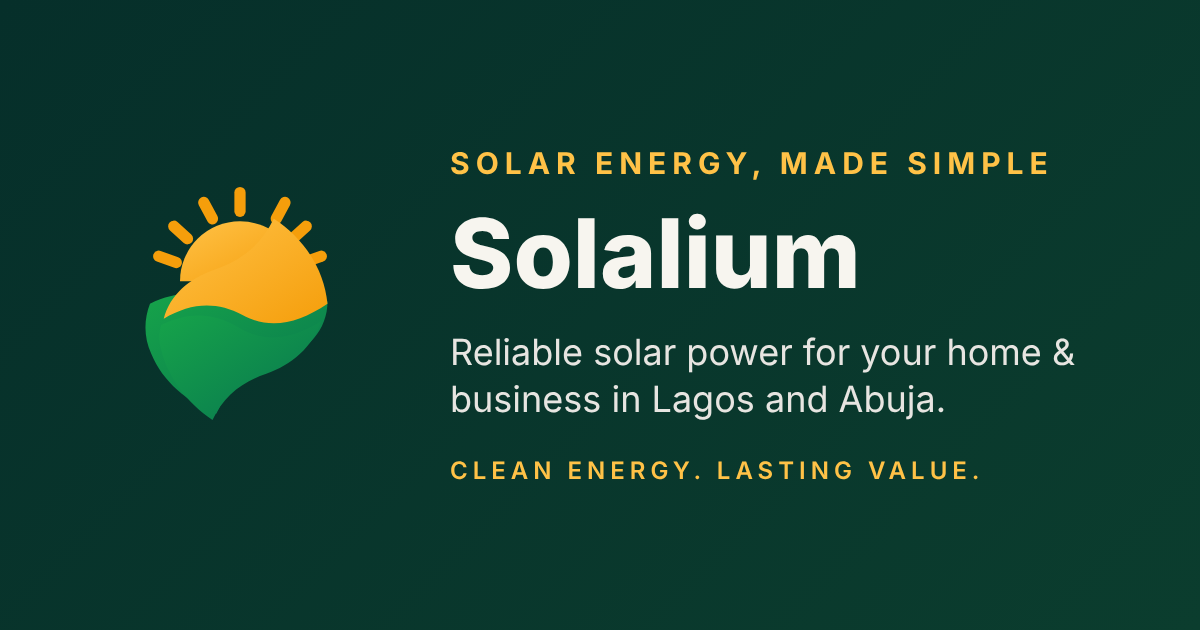
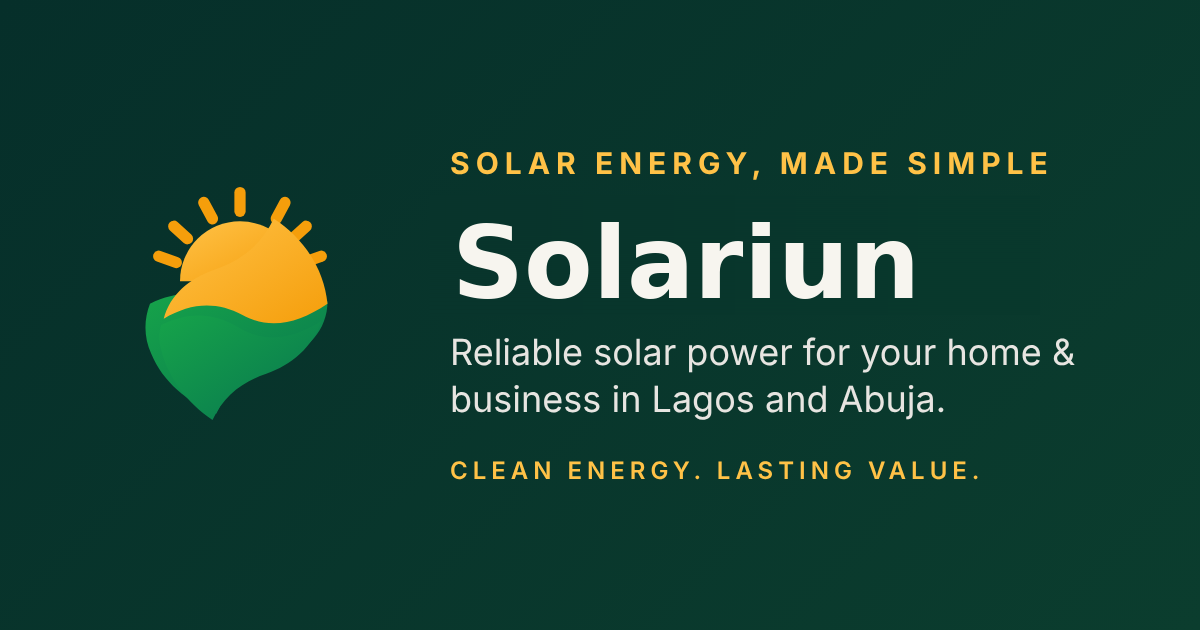
name change

Changed region(s): [[0.37, 0.3317, 0.7708, 0.4825]]

diff --git a/src/pages/Home.jsx b/src/pages/Home.jsx
@@ -7,7 +7,7 @@ import { ArticleCard } from './Blog.jsx';
 const EXAMPLE_BARS = [
   { label: 'Diesel generator', value: '₦420,000', pct: 100, tone: 'diesel' },
   { label: 'National grid', value: '₦180,000', pct: 43, tone: 'grid' },
-  { label: 'Solalium plan', value: '₦95,000', pct: 23, tone: 'solar' },
+  { label: 'Solariun plan', value: '₦95,000', pct: 23, tone: 'solar' },
 ];
 
 export default function Home() {
@@ -31,7 +31,7 @@ export default function Home() {
             <p className="eyebrow">Solar energy, made simple</p>
             <h1>Reliable solar power for your home &amp; business.</h1>
             <p className="lede">
-              Tick the appliances you use. In three minutes Solalium shows what your generator and your light bill really
+              Tick the appliances you use. In three minutes Solariun shows what your generator and your light bill really
               cost, what solar would save, and how to switch by renting, leasing or paying monthly, with vetted providers
               rather than sales pitches.
             </p>
@@ -173,7 +173,7 @@ export default function Home() {
       {posts.length > 0 && (
         <section className="home-blog" id="blog">
           <div className="wrap">
-            <div className="home-blog-head"><h2>From the Solalium blog</h2><Link to="/blog">All articles →</Link></div>
+            <div className="home-blog-head"><h2>From the Solariun blog</h2><Link to="/blog">All articles →</Link></div>
             <div className="article-grid">{posts.map((a) => <ArticleCard key={a.slug} a={a} />)}</div>
           </div>
         </section>
@@ -185,7 +185,7 @@ export default function Home() {
             <p className="eyebrow">For providers</p>
             <h2>Built for installers, sellers and financiers too</h2>
             <p>
-              Solalium qualifies demand before it reaches you: real load data, real budgets, real intent. No cold
+              Solariun qualifies demand before it reaches you: real load data, real budgets, real intent. No cold
               outreach, no bidding against a discount code. Customers arrive having already worked out what they use and what they can spend.
             </p>
           </div>
@@ -200,7 +200,7 @@ export default function Home() {
                 <li>Orders, pickups and payouts managed in one dashboard</li>
                 <li>Verified badge once we have seen your shop or business papers</li>
               </ul>
-              <Link to="/signup?role=vendor" className="btn btn-ghost btn-on-dark">Sell on Solalium</Link>
+              <Link to="/signup?role=vendor" className="btn btn-ghost btn-on-dark">Sell on Solariun</Link>
             </article>
             <article className="provider-card">
               <h3>Companies</h3>
@@ -219,7 +219,7 @@ export default function Home() {
               <ul>
                 <li>Pass a short technical quiz and get approved</li>
                 <li>Jobs in your state land in your dashboard; the first to accept wins it</li>
-                <li>Customers pay Solalium up front, so you work knowing the job is funded</li>
+                <li>Customers pay Solariun up front, so you work knowing the job is funded</li>
                 <li>Your payout is a fixed share of the installation fee</li>
               </ul>
               <Link to="/signup?role=installer" className="btn btn-ghost btn-on-dark">Become an installer</Link>
@@ -233,7 +233,7 @@ export default function Home() {
           </ol>
 
           <p className="provider-foot">
-            Already working with solar? <Link to="/partners">See who is on Solalium</Link>
+            Already working with solar? <Link to="/partners">See who is on Solariun</Link>
           </p>
         </div>
       </section>

diff --git a/src/pages/admin/AdminOrders.jsx b/src/pages/admin/AdminOrders.jsx
@@ -3,7 +3,7 @@ import { api } from '../../api.js';
 import { naira } from '../../lib/format.js';
 
 const at = (iso) => (iso ? new Date(iso).toLocaleString('en-NG', { day: 'numeric', month: 'short', hour: 'numeric', minute: '2-digit', timeZone: 'Africa/Lagos' }) : '—');
-const STAT = [['orders', 'Paid orders'], ['gmv', 'Sales', true], ['platform_revenue', 'Solalium revenue', true], ['awaiting_vendor', 'Awaiting vendor'], ['in_prep', 'In preparation'], ['out_for_delivery', 'Out for delivery'], ['awaiting_receipt', 'Awaiting receipt'], ['completed', 'Completed'], ['late_now', 'Running late'], ['refunds_needed', 'Refunds to do']];
+const STAT = [['orders', 'Paid orders'], ['gmv', 'Sales', true], ['platform_revenue', 'Solariun revenue', true], ['awaiting_vendor', 'Awaiting vendor'], ['in_prep', 'In preparation'], ['out_for_delivery', 'Out for delivery'], ['awaiting_receipt', 'Awaiting receipt'], ['completed', 'Completed'], ['late_now', 'Running late'], ['refunds_needed', 'Refunds to do']];
 const ACTIONS = { placed: ['accept'], accepted: ['prepare', 'ready', 'pickup'], preparing: ['ready', 'pickup'], ready_for_pickup: ['pickup'], out_for_delivery: ['deliver'], delivered: ['receive'] };
 
 export default function AdminOrders() {
@@ -55,7 +55,7 @@ export default function AdminOrders() {
             </header>
             <p><strong>{o.vendor.name}</strong> ({o.vendor.phone}) → {o.customer.name} ({o.customer.phone}), {o.deliverTo.areaName}, {o.deliverTo.stateName}</p>
             <p className="muted">{o.items.map((i) => `${i.qty} × ${i.name}`).join(', ')} · items {naira(o.subtotal)} · service charge {naira(o.serviceCharge)} · delivery {naira(o.deliveryFee)} ({o.distanceKm} km)</p>
-            <p className="muted">Vendor earns {naira(o.vendorEarnings)} (platform fee {naira(o.commission)}) · Solalium revenue on this order {naira(o.platformRevenue)}</p>
+            <p className="muted">Vendor earns {naira(o.vendorEarnings)} (platform fee {naira(o.commission)}) · Solariun revenue on this order {naira(o.platformRevenue)}</p>
             <p className="muted">Paid {at(o.paidAt)} · promised {at(o.promisedBy)} · accepted {at(o.acceptedAt)} · picked up {at(o.pickedUpAt)} · delivered {at(o.deliveredAt)} · received {at(o.completedAt)}</p>
             <div className="row-actions">
               {(ACTIONS[o.status] ?? []).map((a) => <button key={a} type="button" className="btn btn-small btn-quiet" onClick={() => act(o.id, a)}>{a}</button>)}

diff --git a/src/lib/seo.js b/src/lib/seo.js
@@ -1,25 +1,25 @@
 // One place for what search engines and link previews see. Public pages are listed in PUBLIC_PAGES;
 // every other route (accounts, cart, checkout, 404) is marked noindex by RouteSeo.
-export const SITE_NAME = 'Solalium';
+export const SITE_NAME = 'Solariun';
 export const TAGLINE = 'Clean energy. Lasting value.';
 export const SITE_URL = (import.meta.env.VITE_SITE_URL || (typeof window !== 'undefined' ? window.location.origin : '')).replace(/\/$/, '');
 export const OG_IMAGE = '/og-image.png';
 
 export const PUBLIC_PAGES = {
   '/': {
-    title: 'Solalium: Reliable solar power for your home & business in Nigeria',
+    title: 'Solariun: Reliable solar power for your home & business in Nigeria',
     description: 'Find out what your generator and light bill really cost, see what solar would save, and switch by buying, leasing or paying monthly with vetted solar providers in Lagos and Abuja.',
   },
   '/partners': {
-    title: 'Solar installers, vendors and companies in Nigeria | Solalium Partners',
-    description: 'Verified solar sellers, installation companies and installers on Solalium, sortable by state and area in Lagos and Abuja.',
+    title: 'Solar installers, vendors and companies in Nigeria | Solariun Partners',
+    description: 'Verified solar sellers, installation companies and installers on Solariun, sortable by state and area in Lagos and Abuja.',
   },
   '/blog': {
-    title: 'Solar guides and news for homes and businesses in Nigeria | Solalium Blog',
+    title: 'Solar guides and news for homes and businesses in Nigeria | Solariun Blog',
     description: 'Practical articles on solar power, inverters, batteries, costs and saving on fuel and electricity in Nigeria.',
   },
   '/shop': {
-    title: 'Buy solar panels, inverters, batteries & more in Lagos and Abuja | Solalium',
+    title: 'Buy solar panels, inverters, batteries & more in Lagos and Abuja | Solariun',
     description: 'Shop solar panels, inverters, batteries, charge controllers, cables, pumps, streetlights and complete kits from verified vendors near you, with delivery prices shown up front.',
   },
 };

diff --git a/src/components/SiteHeader.jsx b/src/components/SiteHeader.jsx
@@ -13,6 +13,19 @@ const LINKS = [
   ['/#providers', 'For providers'],
 ];
 
+// The phone menu: the shopper's links first, then the ways to join as a provider.
+const SIDE_LINKS = [
+  ['/#how', 'How it works'],
+  ['/shop', 'Shop'],
+  ['/blog', 'Blog'],
+  ['/partners', 'Partners'],
+];
+const PROVIDER_LINKS = [
+  ['/signup?role=installer', 'Become an installer'],
+  ['/signup?role=vendor', 'Sell & Become a Vendor'],
+  ['/signup?role=vendor&type=company', 'Corporate Initiatives'],
+];
+
 export default function SiteHeader() {
   const { user, ready, logout } = useAuth();
   const { open } = useAssessment();
@@ -54,9 +67,9 @@ export default function SiteHeader() {
     <>
     <header className="nav scrolled">
       <div className="wrap nav-inner">
-        <Link to="/" className="brand" aria-label="Solalium home">
+        <Link to="/" className="brand" aria-label="Solariun home">
           <img src="/logo-mark.svg" height="36" alt="" className="brand-logo" />
-          <span className="brand-word">Solalium</span>
+          <span className="brand-word">Solariun</span>
         </Link>
 
         <nav className="nav-links" aria-label="Main">
@@ -100,8 +113,10 @@ export default function SiteHeader() {
               <button type="button" ref={closeRef} className="icon-btn" onClick={() => setMenu(false)} aria-label="Close menu">×</button>
             </div>
             <nav className="side-links" aria-label="Site">
-              {LINKS.map(([to, label]) => <Link key={to} to={to}>{label}</Link>)}
+              {SIDE_LINKS.map(([to, label]) => <Link key={to} to={to}>{label}</Link>)}
               <Link to="/cart">Cart{count > 0 ? ` (${count})` : ''}</Link>
+              <p className="side-group">For providers</p>
+              {PROVIDER_LINKS.map(([to, label]) => <Link key={to} to={to}>{label}</Link>)}
             </nav>
             <div className="side-actions">
               {loggedIn ? (

diff --git a/src/pages/Signup.jsx b/src/pages/Signup.jsx
@@ -25,7 +25,7 @@ export default function Signup() {
   const initialRole = ROLES.some((r) => r.key === params.get('role')) ? params.get('role') : 'individual';
 
   const [role, setRole] = useState(initialRole);
-  const [vendorType, setVendorType] = useState('seller');
+  const [vendorType, setVendorType] = useState(params.get('type') === 'company' ? 'company' : 'seller');
   const [form, setForm] = useState({ fullName: '', companyName: '', email: '', phone: '', password: '' });
   const [fieldErrors, setFieldErrors] = useState({});
   const [formError, setFormError] = useState(null);
@@ -151,7 +151,7 @@ export default function Signup() {
             errors={fieldErrors}
             legend={role === 'vendor' ? 'Business location (where orders are picked up)' : role === 'installer' ? 'Where you are based (you get jobs in your state)' : 'Delivery address'}
           />
-          <p className="muted small-note">Solalium is live in Lagos and Abuja for now.</p>
+          <p className="muted small-note">Solariun is live in Lagos and Abuja for now.</p>
 
           <label className="field">
             <span>Password</span>
@@ -168,7 +168,7 @@ export default function Signup() {
                 {showPassword ? 'Hide' : 'Show'}
               </button>
             </div>
-            {fieldErrors.password ? <small className="err">{fieldErrors.password}</small> : <small>At least 8 characters, with a letter and a number. Already have a Solalium account with this email? Use its password to add this account type.</small>}
+            {fieldErrors.password ? <small className="err">{fieldErrors.password}</small> : <small>At least 8 characters, with a letter and a number. Already have a Solariun account with this email? Use its password to add this account type.</small>}
           </label>
 
           {emailTaken && (

diff --git a/src/pages/Partners.jsx b/src/pages/Partners.jsx
@@ -35,7 +35,7 @@ export default function Partners() {
       <Seo {...PUBLIC_PAGES['/partners']} path="/partners" />
       <h1>Our partners</h1>
       <p className="muted">
-        Sellers, solar companies and installers who have been checked by Solalium. Sort by state or area to find someone near you.
+        Sellers, solar companies and installers who have been checked by Solariun. Sort by state or area to find someone near you.
         {data ? ` ${data.counts.seller} sellers, ${data.counts.company} companies, ${data.counts.installer} installers.` : ''}
       </p>
 
@@ -77,10 +77,11 @@ export default function Partners() {
                   <td data-label="Name"><strong>{p.name}</strong> <span className="badge badge-verified">Verified</span></td>
                   <td data-label="Type">{KIND[p.kind]}</td>
                   <td data-label="State">{p.stateName ?? '—'}</td>
+                  <td data-label="Area">{p.areaName ?? '—'}</td>
                   <td data-label="What they do">
                     {p.services.join(' · ')}
                     {p.kind !== 'installer' && p.products > 0 ? <small className="muted"> · {p.products} product{p.products === 1 ? '' : 's'} listed</small> : null}
-                    {p.kind === 'installer' && p.jobsCompleted > 0 ? <small className="muted"> · {p.jobsCompleted} job{p.jobsCompleted === 1 ? '' : 's'} done on Solalium</small> : null}
+                    {p.kind === 'installer' && p.jobsCompleted > 0 ? <small className="muted"> · {p.jobsCompleted} job{p.jobsCompleted === 1 ? '' : 's'} done on Solariun</small> : null}
                   </td>
                 </tr>
               ))}

diff --git a/src/pages/AddAccount.jsx b/src/pages/AddAccount.jsx
@@ -6,7 +6,7 @@ import AddressFields from '../components/AddressFields.jsx';
 import { VENDOR_TYPES } from './Signup.jsx';
 
 const COPY = {
-  vendor: { title: 'Sell on Solalium', text: 'Open a vendor account on the same email and password. Your shopping account stays as it is; switch between them from the menu.', company: 'Company name', loc: 'Business location (where orders are picked up)' },
+  vendor: { title: 'Sell on Solariun', text: 'Open a vendor account on the same email and password. Your shopping account stays as it is; switch between them from the menu.', company: 'Company name', loc: 'Business location (where orders are picked up)' },
   business: { title: 'Open a business account', text: 'Use the same email and password for your company. Switch between accounts from the menu.', company: 'Business or organisation name', loc: 'Business delivery address' },
   installer: { title: 'Work as an installer', text: 'Open an installer account on the same email and password. You will answer a short set of technical questions and our team approves you before you get jobs.', company: null, loc: 'Where you are based (you get jobs in your state)' },
   individual: { title: 'Open an individual account', text: 'Use the same email and password for your home.', company: null, loc: 'Delivery address' },

diff --git a/src/styles/site.css b/src/styles/site.css
@@ -1,5 +1,5 @@
 :root {
-  /* Solalium brand: Deep Green, Leaf Green, Solar Gold, Sand, Charcoal, Deep Teal, Warm White, Soft Gold.
+  /* Solariun brand: Deep Green, Leaf Green, Solar Gold, Sand, Charcoal, Deep Teal, Warm White, Soft Gold.
      The app runs on the brand's dark surface (Deep Teal / Deep Green) with a gold call to action. */
   --ink: #062f2a;        /* Deep Teal: page background */
   --panel: #0b3d2e;      /* Deep Green: cards and panels */
@@ -630,6 +630,7 @@ p {
 .side-head { display: flex; align-items: center; justify-content: space-between; padding-bottom: 12px; border-bottom: 1px solid var(--line); }
 .side-links { display: flex; flex-direction: column; padding: 8px 0; }
 .side-links a { color: var(--paper); text-decoration: none; font-size: 17px; padding: 14px 4px; border-bottom: 1px solid rgba(255, 255, 255, 0.06); }
+.side-group { margin: 18px 4px 2px; font-size: 12px; letter-spacing: 0.08em; text-transform: uppercase; color: var(--muted); }
 .side-actions { display: flex; flex-direction: column; gap: 10px; margin-top: auto; padding-top: 18px; }
 .side-actions .btn { width: 100%; justify-content: center; text-align: center; }
 @media (prefers-reduced-motion: reduce) { .side-menu { animation: none; } }

diff --git a/src/components/AppLayout.jsx b/src/components/AppLayout.jsx
@@ -10,7 +10,7 @@ const NAV = {
   admin: [['/app', 'Vendors', true], ['/app/installers', 'Installers'], ['/app/admin-installations', 'Installations'], ['/app/admin-subscriptions', 'Subscriptions'], ['/app/blog', 'Blog'], ['/app/orders', 'Orders'], ['/app/admin-products', 'Products'], ['/app/pricing', 'Pricing & rules'], ['/app/users', 'Users'], ['/app/activity', 'Activity'], ['/app/password', 'Password']],
 };
 const ROLE_LABEL = { individual: 'Individual', business: 'Business', vendor: 'Vendor', installer: 'Installer', admin: 'Admin' };
-const OPEN_LABEL = { individual: 'Open an individual account', business: 'Open a business account', vendor: 'Sell on Solalium (vendor)', installer: 'Work as an installer' };
+const OPEN_LABEL = { individual: 'Open an individual account', business: 'Open a business account', vendor: 'Sell on Solariun (vendor)', installer: 'Work as an installer' };
 
 // The frame around every signed-in page: a sidebar with the pages for this type of account, a switcher between
 // the accounts that share the person's email, and a way to open another type.

diff --git a/src/components/ResultsView.jsx b/src/components/ResultsView.jsx
@@ -254,7 +254,7 @@ export default function ResultsView({ result, mode = 'guest', onChoose }) {
           {options.eaas && (
           <li>
             Energy as a service: {assumptions.eaas.termMonths} months, installation spread over the payments. The price covers the equipment at a
-            {' '}{Math.round(assumptions.eaas.annualReturn * 100)}% yearly return to the provider, running costs, a risk allowance and a {Math.round(assumptions.eaas.platformFeePct * 100)}% Solalium fee. Real vendors set their own terms.
+            {' '}{Math.round(assumptions.eaas.annualReturn * 100)}% yearly return to the provider, running costs, a risk allowance and a {Math.round(assumptions.eaas.platformFeePct * 100)}% Solariun fee. Real vendors set their own terms.
           </li>
           )}
           <li>Last updated {assumptions.asOf}.</li>

diff --git a/src/components/SiteFooter.jsx b/src/components/SiteFooter.jsx
@@ -9,7 +9,7 @@ export default function SiteFooter() {
         <div className="footer-brand">
           <Link to="/" className="brand">
             <img src="/logo-mark.svg" height="30" alt="" className="brand-logo" />
-            <span className="brand-word">Solalium</span>
+            <span className="brand-word">Solariun</span>
           </Link>
           <p>Clean energy. Lasting value.</p>
         </div>
@@ -21,7 +21,7 @@ export default function SiteFooter() {
           <Link to="/#providers">For providers</Link>
           {ready && !user && <Link to="/login">Log in</Link>}
         </div>
-        <p className="footer-meta">© 2026 Solalium. Made in Nigeria.</p>
+        <p className="footer-meta">© 2026 Solariun. Made in Nigeria.</p>
       </div>
     </footer>
   );

diff --git a/index.html b/index.html
@@ -3,10 +3,10 @@
   <head>
     <meta charset="UTF-8" />
     <meta name="viewport" content="width=device-width, initial-scale=1.0" />
-    <title>Solalium — Clean energy. Lasting value.</title>
+    <title>Solariun — Clean energy. Lasting value.</title>
     <meta
       name="description"
-      content="Reliable solar power for your home and business. Find out what your power really costs, in minutes, and get a clear, financed path to solar with Solalium."
+      content="Reliable solar power for your home and business. Find out what your power really costs, in minutes, and get a clear, financed path to solar with Solariun."
     />
     <meta name="theme-color" content="#062f2a" />
     <link rel="manifest" href="/site.webmanifest" />
